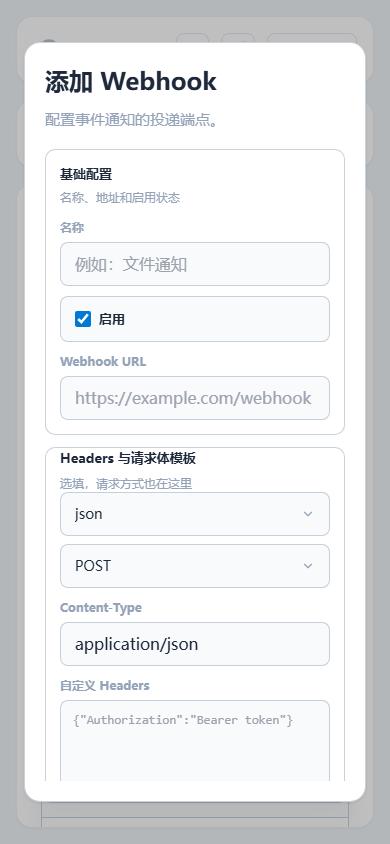
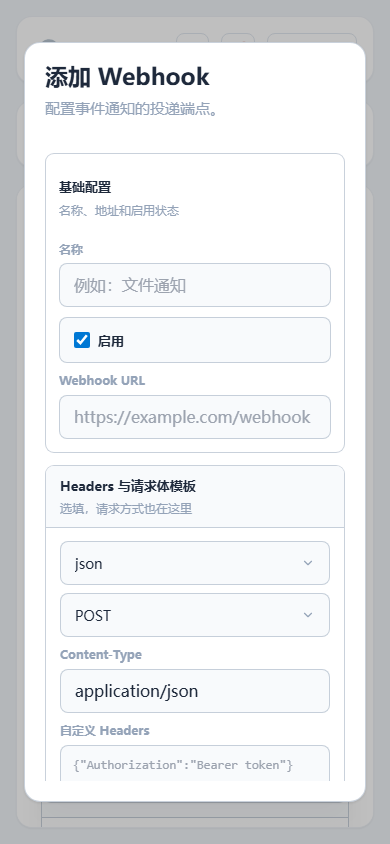
new

diff --git a/public/css/pages/admin.css b/public/css/pages/admin.css
@@ -5636,11 +5636,21 @@ select.input {
 }
 
 .webhook-modal-card {
-  width: min(1120px, calc(100vw - 48px));
+  width: min(1180px, calc(100vw - 56px));
   max-height: min(92vh, 920px);
   display: flex;
   flex-direction: column;
   padding: 24px;
+}
+
+.webhook-modal-card .modal-title {
+  font-size: 23px;
+  line-height: 1.2;
+}
+
+.webhook-modal-card .modal-copy {
+  margin: 6px 0 16px;
+  line-height: 1.5;
 }
 
 .webhook-modal-card .modal-form {
@@ -5649,14 +5659,14 @@ select.input {
   gap: 12px;
   min-height: 0;
   overflow-y: auto;
-  padding-right: 4px;
-  margin-right: -4px;
+  padding-right: 6px;
+  margin-right: -6px;
 }
 
 .webhook-modal-layout {
   display: grid;
-  grid-template-columns: minmax(430px, 1.08fr) minmax(360px, 0.92fr);
-  gap: 12px;
+  grid-template-columns: minmax(480px, 1.12fr) minmax(390px, 0.88fr);
+  gap: 14px;
   align-items: start;
   flex-shrink: 0;
   min-height: 0;
@@ -5679,12 +5689,12 @@ select.input {
 .webhook-modal-section,
 .webhook-modal-advanced {
   border: 1px solid var(--line);
-  border-radius: 10px;
+  border-radius: 9px;
   background: var(--panel);
 }
 
 .webhook-modal-section {
-  padding: 14px;
+  padding: 13px;
 }
 
 .webhook-modal-section-head {
@@ -5692,7 +5702,7 @@ select.input {
   align-items: flex-start;
   justify-content: space-between;
   gap: 12px;
-  margin-bottom: 12px;
+  margin-bottom: 13px;
 }
 
 .webhook-modal-section-head span {
@@ -5730,6 +5740,7 @@ select.input {
   color: var(--muted);
   font-size: 12px;
   font-weight: 600;
+  line-height: 1.3;
 }
 
 .webhook-enable-row {
@@ -5763,8 +5774,8 @@ select.input {
   display: grid;
   grid-template-columns: auto minmax(0, 1fr);
   gap: 2px 8px;
-  min-height: 60px;
-  padding: 10px 12px;
+  min-height: 56px;
+  padding: 9px 11px;
   border-radius: 8px;
   border: 1px solid var(--line);
   background: var(--panel-soft);
@@ -5800,8 +5811,8 @@ select.input {
 
 .webhook-event-custom {
   display: grid;
-  gap: 10px;
-  margin-top: 10px;
+  gap: 12px;
+  margin-top: 12px;
   transition: opacity 0.15s;
 }
 
@@ -5825,7 +5836,7 @@ select.input {
 }
 
 .webhook-event-group {
-  padding: 12px;
+  padding: 11px;
   border-radius: 8px;
   border: 1px solid var(--line);
   background: var(--panel-soft);
@@ -5833,10 +5844,12 @@ select.input {
 
 .webhook-event-group-head {
   display: flex;
-  align-items: baseline;
+  align-items: center;
   justify-content: space-between;
   gap: 10px;
   margin-bottom: 10px;
+  padding-bottom: 8px;
+  border-bottom: 1px solid var(--line);
 }
 
 .webhook-event-group-head span {
@@ -5854,7 +5867,7 @@ select.input {
 
 .webhook-event-grid {
   display: grid;
-  grid-template-columns: repeat(2, minmax(0, 1fr));
+  grid-template-columns: repeat(2, minmax(172px, 1fr));
   gap: 8px;
 }
 
@@ -5862,8 +5875,8 @@ select.input {
   display: grid;
   grid-template-columns: auto minmax(0, 1fr);
   gap: 2px 8px;
-  min-height: 62px;
-  padding: 10px;
+  min-height: 56px;
+  padding: 9px 10px;
   border-radius: 8px;
   border: 1px solid var(--line);
   background: var(--panel);
@@ -5923,39 +5936,24 @@ select.input {
   overflow: hidden;
 }
 
-.webhook-modal-advanced summary {
-  min-height: 44px;
+.webhook-modal-advanced-head {
+  min-height: 42px;
   display: flex;
   align-items: center;
   justify-content: space-between;
   gap: 12px;
   padding: 0 14px;
   color: var(--text);
-  cursor: pointer;
-  list-style: none;
-  user-select: none;
-  transition: background 0.15s, color 0.15s;
-}
-
-.webhook-modal-advanced summary::-webkit-details-marker {
-  display: none;
-}
-
-.webhook-modal-advanced summary::marker {
-  content: "";
-}
-
-.webhook-modal-advanced summary:hover {
+  border-bottom: 1px solid var(--line);
   background: var(--panel-soft);
-  color: var(--accent);
 }
 
-.webhook-modal-advanced summary span {
+.webhook-modal-advanced-head span {
   font-size: 13px;
   font-weight: 700;
 }
 
-.webhook-modal-advanced summary small {
+.webhook-modal-advanced-head small {
   color: var(--muted);
   font-size: 12px;
   font-weight: 500;
@@ -5965,7 +5963,7 @@ select.input {
 .webhook-modal-advanced-body {
   display: grid;
   gap: 10px;
-  padding: 0 14px 14px;
+  padding: 13px 14px 14px;
 }
 
 .webhook-code-grid {
@@ -5975,10 +5973,11 @@ select.input {
 }
 
 .webhook-modal-card textarea.webhook-code-input {
-  height: 164px;
-  min-height: 164px;
+  height: 170px;
+  min-height: 170px;
+  max-height: 170px;
   padding: 10px 12px;
-  resize: vertical;
+  resize: none;
   overflow: auto;
   line-height: 1.55;
   font-family: ui-monospace, SFMono-Regular, Menlo, Monaco, Consolas, "Liberation Mono", monospace;
@@ -6057,15 +6056,17 @@ select.input {
 
   .webhook-modal-section-head,
   .webhook-event-group-head,
-  .webhook-modal-advanced summary {
+  .webhook-modal-advanced-head {
     align-items: flex-start;
     flex-direction: column;
     gap: 4px;
+    padding-top: 10px;
+    padding-bottom: 10px;
   }
 
   .webhook-modal-section-head small,
   .webhook-event-group-head small,
-  .webhook-modal-advanced summary small {
+  .webhook-modal-advanced-head small {
     text-align: left;
   }
 

diff --git a/public/js/render/modals/admin-modals.js b/public/js/render/modals/admin-modals.js
@@ -166,18 +166,12 @@ export function createAdminModalRenderers({
     const knownEvents = new Set(eventGroups.flatMap((group) => group.options.map((option) => option.key)));
     const selectedSet = new Set(selectedEvents);
     const legacyEvents = selectedEvents.filter((event) => !knownEvents.has(event));
-    const useAllEvents = selectedEvents.length === 0;
+    const initialEventMode = modal.eventMode === "custom" || modal.eventMode === "all" ? modal.eventMode : "";
+    const useAllEvents = initialEventMode ? initialEventMode === "all" : selectedEvents.length === 0;
     const eventCheckboxDisabled = useAllEvents ? "disabled" : "";
     const msgtype = modal.msgtype || "json";
     const method = modal.method || "POST";
     const contentType = modal.contentType || "application/json";
-    const hasAdvancedValue = Boolean(
-      (modal.headers || "").trim()
-      || (modal.body || "").trim()
-      || msgtype !== "json"
-      || method !== "POST"
-      || contentType !== "application/json",
-    );
     const eventCount = eventGroups.reduce((count, group) => count + group.options.length, 0);
     const renderEventOption = (option) => `
       <label class="webhook-event-option">
@@ -223,11 +217,11 @@ export function createAdminModalRenderers({
               </div>
             </section>
 
-            <details class="webhook-modal-advanced" ${hasAdvancedValue ? "open" : ""}>
-              <summary>
+            <section class="webhook-modal-advanced">
+              <div class="webhook-modal-advanced-head">
                 <span>Headers 与请求体模板</span>
                 <small>选填，请求方式也在这里</small>
-              </summary>
+              </div>
               <div class="webhook-modal-advanced-body">
                 <div class="webhook-modal-select-row">
                   ${renderModalCustomSelect({
@@ -266,7 +260,7 @@ export function createAdminModalRenderers({
                   <span>{{data.message}}</span>
                 </div>
               </div>
-            </details>
+            </section>
               </div>
 
               <div class="webhook-modal-side">

diff --git a/public/js/events/admin-actions.js b/public/js/events/admin-actions.js
@@ -200,7 +200,7 @@ export function registerAdminActions(documentRef, windowRef, store, actions, thu
     }
 
     if (action === "show-add-webhook") {
-      store.dispatch(actions.app.setModal({ type: "add-webhook", loading: false, error: "", name: "", url: "", msgtype: "json", method: "POST", contentType: "application/json", headers: "", body: "", events: [], enabled: true }));
+      store.dispatch(actions.app.setModal({ type: "add-webhook", loading: false, error: "", name: "", url: "", msgtype: "json", method: "POST", contentType: "application/json", headers: "", body: "", events: [], eventMode: "custom", enabled: true }));
       return;
     }
 